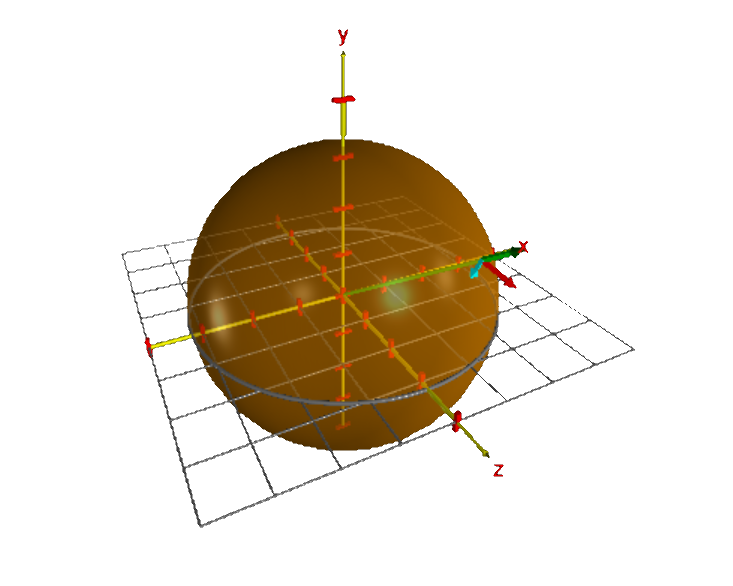
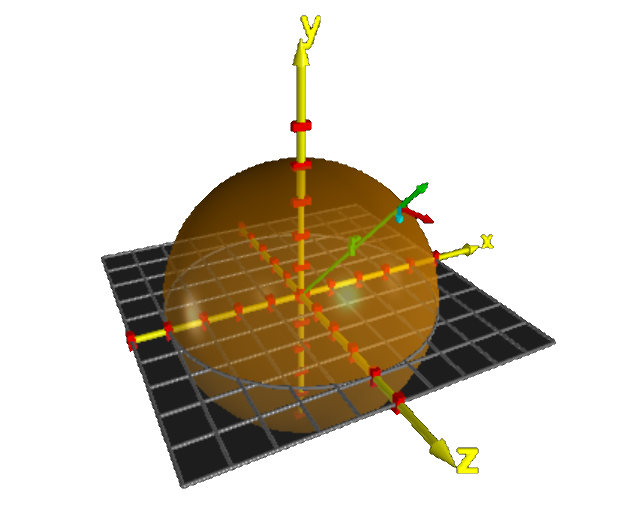
Fixes

Changed region(s): [[0.1491, 0.0306, 0.8948, 0.9484]]

diff --git a/src/glowscript/polar_coordinates.py b/src/glowscript/polar_coordinates.py
@@ -1,194 +1,179 @@
-#Web VPython 3.2
+# Web VPython 3.2
 
-from vpython import sphere, vec, arrow, color, sin, cos, ring, curve, cross, label, canvas, norm, slider, radians, rate, cylinder, text, box, pi, checkbox
+from vpython import *
 
-title = """Frequently used objects
+animation = canvas(forward=vec(0.37, -0.55, -0.75), range=9., title="Base")
 
-&#x2022; Created by <a href="https://github.com/zhendrikse/">Zeger Hendrikse</a> 
-&#x2022; Maintained in this <a href="https://github.com/zhendrikse/physics-in-python/">GitHub repository</a>
+# https://github.com/nicolaspanel/numjs
+get_library('https://cdn.jsdelivr.net/gh/nicolaspanel/numjs@0.15.1/dist/numjs.min.js')
 
-"""
 
-animation = canvas(forward=vec(0.37, -0.55, -0.75), range=8., title=title)
+class Numpy:
+    def __init__(self):
+        self.array = self._array
+        self.linspace = self._linspace
+        self.len = self._len
 
-theta = 45
-phi = 45
-radius = 4
+    def _array(self, an_array):
+        return nj.array(an_array)
+
+    def _linspace(self, start, stop, num):
+        return self._array([x for x in arange(start, stop, (stop - start) / (num - 1))] + [stop])
+
+    def _len(self, numpy_array): return numpy_array.shape[0]
+
+
+np = Numpy()
 
 x_hat = vec(1, 0, 0)
 y_hat = vec(0, 1, 0)
 z_hat = vec(0, 0, 1)
-base = [x_hat, y_hat, z_hat]
 label_text = ("x", "y", "z")
 
+
+class Space:
+    def __init__(self, linspace_x, linspace_y, linspace_z):
+        self.linspace_x = linspace_x
+        self.linspace_y = linspace_y
+        self.linspace_z = linspace_z
+
+
 class Base:
-    def __init__(self, position=vec(0, 0, 0), axis_color=color.yellow, tick_marks_color=color.red, length=20, num_tick_marks=None, axis_labels=label_text):
-        self._position = position
-        num_tick_marks = length - 1 if not num_tick_marks else num_tick_marks
-        tick_increment = length / (num_tick_marks - 1)
-        radius = length / 200
+    def __init__(self, space, position=vec(0, 0, 0), axis_color=color.yellow, tick_marks_color=color.red,
+                 axis_labels=label_text):
+        x_ = space.linspace_x
+        y_ = space.linspace_y
+        z_ = space.linspace_z
+        scale = .01 * (x_.get(-1) - x_.get(0))
+        delta_x = x_.get(1) - x_.get(0)
+        delta_y = y_.get(1) - y_.get(0)
+        delta_z = z_.get(1) - z_.get(0)
+        range_x = x_.get(-1) - x_.get(0)
+        range_y = y_.get(-1) - y_.get(0)
+        range_z = z_.get(-1) - z_.get(0)
+        self._axis = self._make_axis(x_, y_, z_, delta_x, delta_y, delta_z, axis_color, axis_labels, scale)
+        self._tick_marks = self._make_tick_marks(x_, y_, z_, tick_marks_color, scale)
 
-        self._axis, self._arrows, self._arrow_labels, self._tick_marks, self._tick_labels = [], [], [], [], []
-        for base_vec in base:
-            self._axis += [
-                cylinder(pos=position - length * base_vec / 2, axis=length * base_vec, radius=radius, color=axis_color)]
-            self._arrows += [
-                arrow(pos=position + length * base_vec / 2, axis=base_vec, color=axis_color, shaftwidth=radius)]
-
-        for i in range(len(base)):
-            pos = position + base[i] * (length / 2 + tick_increment)
-            self._arrow_labels.append(text(pos=pos, text=axis_labels[i], color=axis_color, height=radius*10, align='center', billboard=True, emissive=True))
-
-        offset = [-0.05 * length * y_hat, 0.05 * length * x_hat, -0.05 * length * y_hat]
-        positions = []
-        for i in range(len(base)):
-            for j in range(num_tick_marks):
-                pos = position - base[i] * (length / 2 - j * tick_increment)
-                positions.append(pos)
-                label_value = pos.x - position.x if i == 0 else pos.y - position.y if i == 1 else pos.z - position.z
-                label_value = "" if int(num_tick_marks / 2) == j else str(int(label_value))
-                marker = label(pos=pos + offset[i], text=label_value, color=color.gray(0.5), box=False)
-                self._tick_labels.append(marker)
-                a_box = box(pos=pos, width=2 * radius, height=0.5, length=2 * radius, color=tick_marks_color)
-                if i == 1:
-                    a_box.rotate(angle=0.5 * pi, axis=vec(0, 0, 1))
-                self._tick_marks.append(a_box)
-
-        self._xy_mesh, self._zx_mesh, self._xz_mesh, self._yx_mesh = [], [], [], []
-        for j in range(num_tick_marks):
+        self._xy_mesh, self._xz_mesh, self._yz_mesh = [], [], []
+        for j in range(np.len(x_)):
+            pos_x_y = x_hat * x_.get(0) + y_hat * y_.get(0)
+            pos_x_z = x_hat * x_.get(0) + z_hat * z_.get(0)
+            pos_y_z = y_hat * y_.get(0) + z_hat * z_.get(0)
             self._xy_mesh += [
-                cylinder(pos=vec(position.x - length / 2, position.y + j * tick_increment - length / 2, position.z),
-                         axis=x_hat * length, color=color.gray(.5), radius=radius / 2, visible=False)]
-            self._yx_mesh += [
-                cylinder(pos=vec(position.x - length / 2 + j * tick_increment, position.y - length / 2, position.z),
-                         axis=y_hat * length, color=color.gray(.5), radius=radius / 2, visible=False)]
+                cylinder(pos=position + pos_x_y + x_hat * j * delta_x, axis=y_hat * range_y, color=color.gray(.5),
+                         radius=scale * .5, visible=False)]
+            self._xy_mesh += [
+                cylinder(pos=position + pos_x_y + y_hat * j * delta_y, axis=x_hat * range_x, color=color.gray(.5),
+                         radius=scale * .5, visible=False)]
+            self._xy_mesh += [
+                box(pos=position, length=range_x, width=scale, height=range_y, opacity=0.15, visible=False)]
             self._xz_mesh += [
-                cylinder(pos=vec(position.x - length / 2 + j * tick_increment, position.y, position.z - length / 2),
-                         axis=z_hat * length, color=color.gray(.5), radius=radius / 2, visible=False)]
-            self._zx_mesh += [
-                cylinder(pos=vec(position.x - length / 2, position.y, position.z - length / 2 + j * tick_increment),
-                         axis=x_hat * length, color=color.gray(.5), radius=radius / 2, visible=False)]
+                cylinder(pos=position + pos_x_z + x_hat * j * delta_x, axis=z_hat * range_z, color=color.gray(.5),
+                         radius=scale * .5, visible=False)]
+            self._xz_mesh += [
+                cylinder(pos=position + pos_x_z + z_hat * j * delta_z, axis=x_hat * range_x, color=color.gray(.5),
+                         radius=scale * .5, visible=False)]
+            self._xz_mesh += [
+                box(pos=position, length=range_x, width=range_z, height=scale, opacity=0.15, visible=False)]
+            self._yz_mesh += [
+                cylinder(pos=position + pos_y_z + y_hat * j * delta_y, axis=z_hat * range_z, color=color.gray(.5),
+                         radius=scale * .5, visible=False)]
+            self._yz_mesh += [
+                cylinder(pos=position + pos_y_z + z_hat * j * delta_z, axis=y_hat * range_y, color=color.gray(.5),
+                         radius=scale * .5, visible=False)]
+            self._yz_mesh += [
+                box(pos=position, length=scale, width=range_z, height=range_y, opacity=0.15, visible=False)]
 
-    def show_axis(self):
-        self.axis_visible(True)
+    def _make_axis(self, x_, y_, z_, delta_x, delta_y, delta_z, axis_color, axis_labels, scale):
+        c1 = cylinder(pos=x_hat * x_.get(0), axis=x_hat * (x_.get(-1) - x_.get(0)), color=axis_color, radius=scale)
+        c2 = cylinder(pos=y_hat * y_.get(0), axis=y_hat * (y_.get(-1) - y_.get(0)), color=axis_color, radius=scale)
+        c3 = cylinder(pos=z_hat * z_.get(0), axis=z_hat * (z_.get(-1) - z_.get(0)), color=axis_color, radius=scale)
+        a1 = arrow(pos=x_hat * x_.get(-1), color=axis_color, shaftwidth=scale * 2, axis=2 * delta_x * x_hat, round=True)
+        a2 = arrow(pos=y_hat * y_.get(-1), color=axis_color, shaftwidth=scale * 2, axis=2 * delta_y * y_hat, round=True)
+        a3 = arrow(pos=z_hat * z_.get(-1), color=axis_color, shaftwidth=scale * 2, axis=2 * delta_z * z_hat, round=True)
+        l1 = text(pos=x_hat * (x_.get(-1) + 2 * delta_x) - vec(0, scale, 0), text=axis_labels[0],
+                  color=axis_color, height=scale * 7, billboard=True, emissive=True)
+        l2 = text(pos=y_hat * (y_.get(-1) + 2 * delta_y) - vec(0, scale, 0), text=axis_labels[1],
+                  color=axis_color, height=scale * 7, billboard=True, emissive=True)
+        l3 = text(pos=z_hat * (z_.get(-1) + 2 * delta_z) - vec(0, scale, 0), text=axis_labels[2],
+                  color=axis_color, height=scale * 7, billboard=True, emissive=True)
+        return [c1, c2, c3, a1, a2, a3, l1, l2, l3]
 
-    def hide_axis(self):
-        self.axis_visible(False)
+    def _make_tick_marks(self, x_dim, y_dim, z_dim, tick_marks_color, scale):
+        tick_marks = []
+        for i in range(np.len(x_dim)):
+            a_box = box(pos=x_hat * x_dim.get(i), width=scale * 2, height=scale * 5, length=scale * 2,
+                        color=tick_marks_color)
+            tick_marks.append(a_box)
+        for i in range(np.len(z_dim)):
+            a_box = box(pos=z_hat * z_dim.get(i), width=scale * 2, height=scale * 5, length=scale * 2,
+                        color=tick_marks_color)
+            tick_marks.append(a_box)
+        for i in range(np.len(y_dim)):
+            a_box = box(pos=y_hat * y_dim.get(i), width=scale * 2, height=scale * 5, length=scale * 2,
+                        color=tick_marks_color)
+            a_box.rotate(angle=0.5 * pi, axis=vec(0, 0, 1))
+            tick_marks.append(a_box)
+        return tick_marks
 
-    def show_tick_labels(self):
-        self.tick_labels_visible(True)
-
-    def hide_tick_labels(self):
-        self.tick_labels_visible(False)
-
-    def show_tick_marks(self):
-        self.tick_marks_visible(True)
-
-    def hide_tick_marks(self):
-        self.tick_marks_visible(False)
-
-    def axis_visible(self, visible):
-        for i in range(len(base)):
-            self._arrow_labels[i].visible = visible
-            self._arrows[i].visible = visible
+    def axis_visiblility_is(self, visible):
+        for i in range(len(self._axis)):
             self._axis[i].visible = visible
 
-    def tick_labels_visible(self, visible):
-        for a_label in self._tick_labels:
-            a_label.visible = visible
-
-    def tick_marks_visible(self, visible):
+    def tick_marks_visiblility_is(self, visible):
         for tick_mark in self._tick_marks:
             tick_mark.visible = visible
 
-    def xy_mesh_visible(self, visible):
+    def xy_mesh_visibility_is(self, visible):
         for i in range(len(self._xy_mesh)):
             self._xy_mesh[i].visible = visible
-            self._yx_mesh[i].visible = visible
 
-    def xz_mesh_visible(self, visible):
+    def xz_mesh_visibility_is(self, visible):
         for i in range(len(self._xz_mesh)):
             self._xz_mesh[i].visible = visible
-            self._zx_mesh[i].visible = visible
 
-    def show_xy_mesh(self):
-        self.xy_mesh_visible(True)
-
-    def hide_xy_mesh(self):
-        self.xy_mesh_visible(False)
-
-    def show_xz_mesh(self):
-        self.xz_mesh_visible(True)
-
-    def hide_xz_mesh(self):
-        self.xz_mesh_visible(False)
+    def yz_mesh_visibility_is(self, visible):
+        for i in range(len(self._xz_mesh)):
+            self._yz_mesh[i].visible = visible
 
 
 def to_cartesian(r_, phi_, theta_):
-    return vec(r_ * sin(radians(theta_)) * cos(radians(phi_)), r_ * sin(radians(theta_)) * sin(radians(phi_)), r_ * cos(radians(theta_)))
+    return vec(r_ * sin(radians(theta_)) * cos(radians(phi_)), r_ * sin(radians(theta_)) * sin(radians(phi_)),
+               r_ * cos(radians(theta_)))
 
-axis = Base(length=10)
-axis.hide_tick_labels()
-axis.show_xz_mesh()
-
-dome = sphere(radius=radius, opacity=0.5, color=color.orange)
-intersection = ring(radius=radius, color=color.gray(0.5), axis=y_hat, thickness=1/(radius * 5))
-
-point_on_sphere = to_cartesian(radius, phi, theta)
-radial_arrow = arrow(pos=point_on_sphere, axis=norm(point_on_sphere), color=color.green)
-radial_axis = curve(pos=[vec(0, 0, 0), point_on_sphere], color=color.green)
-theta_arrow = arrow(pos=point_on_sphere, axis=norm(point_on_sphere - y_hat * radius), color=color.red)
-phi_arrow = arrow(pos=point_on_sphere, axis=cross(theta_arrow.axis, radial_arrow.axis), color=color.cyan)
-radial_label = text(pos=to_cartesian(radius * .5, phi, theta), text="r", height=radius / 5, color=color.green)
-
-def set_tangent_vectors():
-    theta_arrow.axis = norm(to_cartesian(radius, phi, theta) - y_hat * radius)
-    theta_arrow.pos = to_cartesian(radius, phi, theta)
-    radial_arrow.axis = norm(to_cartesian(radius, phi, theta))
-    radial_arrow.pos = to_cartesian(radius, phi, theta)
-    radial_axis.modify(1, pos=to_cartesian(radius, phi, theta))
-    phi_arrow.pos = to_cartesian(radius, phi, theta)
-    phi_arrow.axis = cross(theta_arrow.axis, radial_arrow.axis)
-    radial_label.pos=to_cartesian(radius * .5, phi, theta)
-
-def set_phi():
-    global phi
-    phi = phi_slider.value
-    set_tangent_vectors()
-
-def set_theta():
-    global theta
-    theta = theta_slider.value
-    set_tangent_vectors()
-
-animation.append_to_caption("\nAdjust theta using the slider\n")
-theta_slider = slider(bind = set_theta, value = theta, min = 0, max = 360)
-animation.append_to_caption("\nAdjust phi using the slider\n")
-phi_slider = slider(bind = set_phi, value = phi, min = 0, max = 360)
-
-
-animation.append_to_caption("\n\n")
 
 def toggle_tick_marks(event):
-    axis.tick_marks_visible(event.checked)
+    axis.tick_marks_visiblility_is(event.checked)
 
-def toggle_tick_labels(event):
-    axis.tick_labels_visible(event.checked)
 
 def toggle_xz_mesh(event):
-    axis.xz_mesh_visible(event.checked)
+    axis.xz_mesh_visibility_is(event.checked)
+
 
 def toggle_xy_mesh(event):
-    axis.xy_mesh_visible(event.checked)
+    axis.xy_mesh_visibility_is(event.checked)
+
+
+def toggle_yz_mesh(event):
+    axis.yz_mesh_visibility_is(event.checked)
+
 
 def toggle_axis(event):
-    axis.axis_visible(event.checked)
+    axis.axis_visiblility_is(event.checked)
 
-_ = checkbox(text = 'Tick marks', bind = toggle_tick_marks, checked=True)
-_ = checkbox(text = 'Tick labels', bind = toggle_tick_labels, checked=False)
-_ = checkbox(text = 'XZ mesh', bind = toggle_xz_mesh, checked=True)
-_ = checkbox(text = 'XY mesh', bind = toggle_xy_mesh, checked=False)
-_ = checkbox(text = 'Axis', bind = toggle_axis, checked=True)
+
+animation.append_to_caption("\n")
+_ = checkbox(text='Tick marks', bind=toggle_tick_marks, checked=True)
+_ = checkbox(text='YZ mesh', bind=toggle_yz_mesh, checked=False)
+_ = checkbox(text='XZ mesh', bind=toggle_xz_mesh, checked=True)
+_ = checkbox(text='XY mesh', bind=toggle_xy_mesh, checked=False)
+_ = checkbox(text='Axis', bind=toggle_axis, checked=True)
+
+space = Space(np.linspace(-5, 5, 11), np.linspace(-5, 5, 11), np.linspace(-5, 5, 11))
+axis = Base(space)
+axis.xz_mesh_visibility_is(True)
+
+animation.append_to_caption("\n\n")
 
 while True:
     rate(60)
